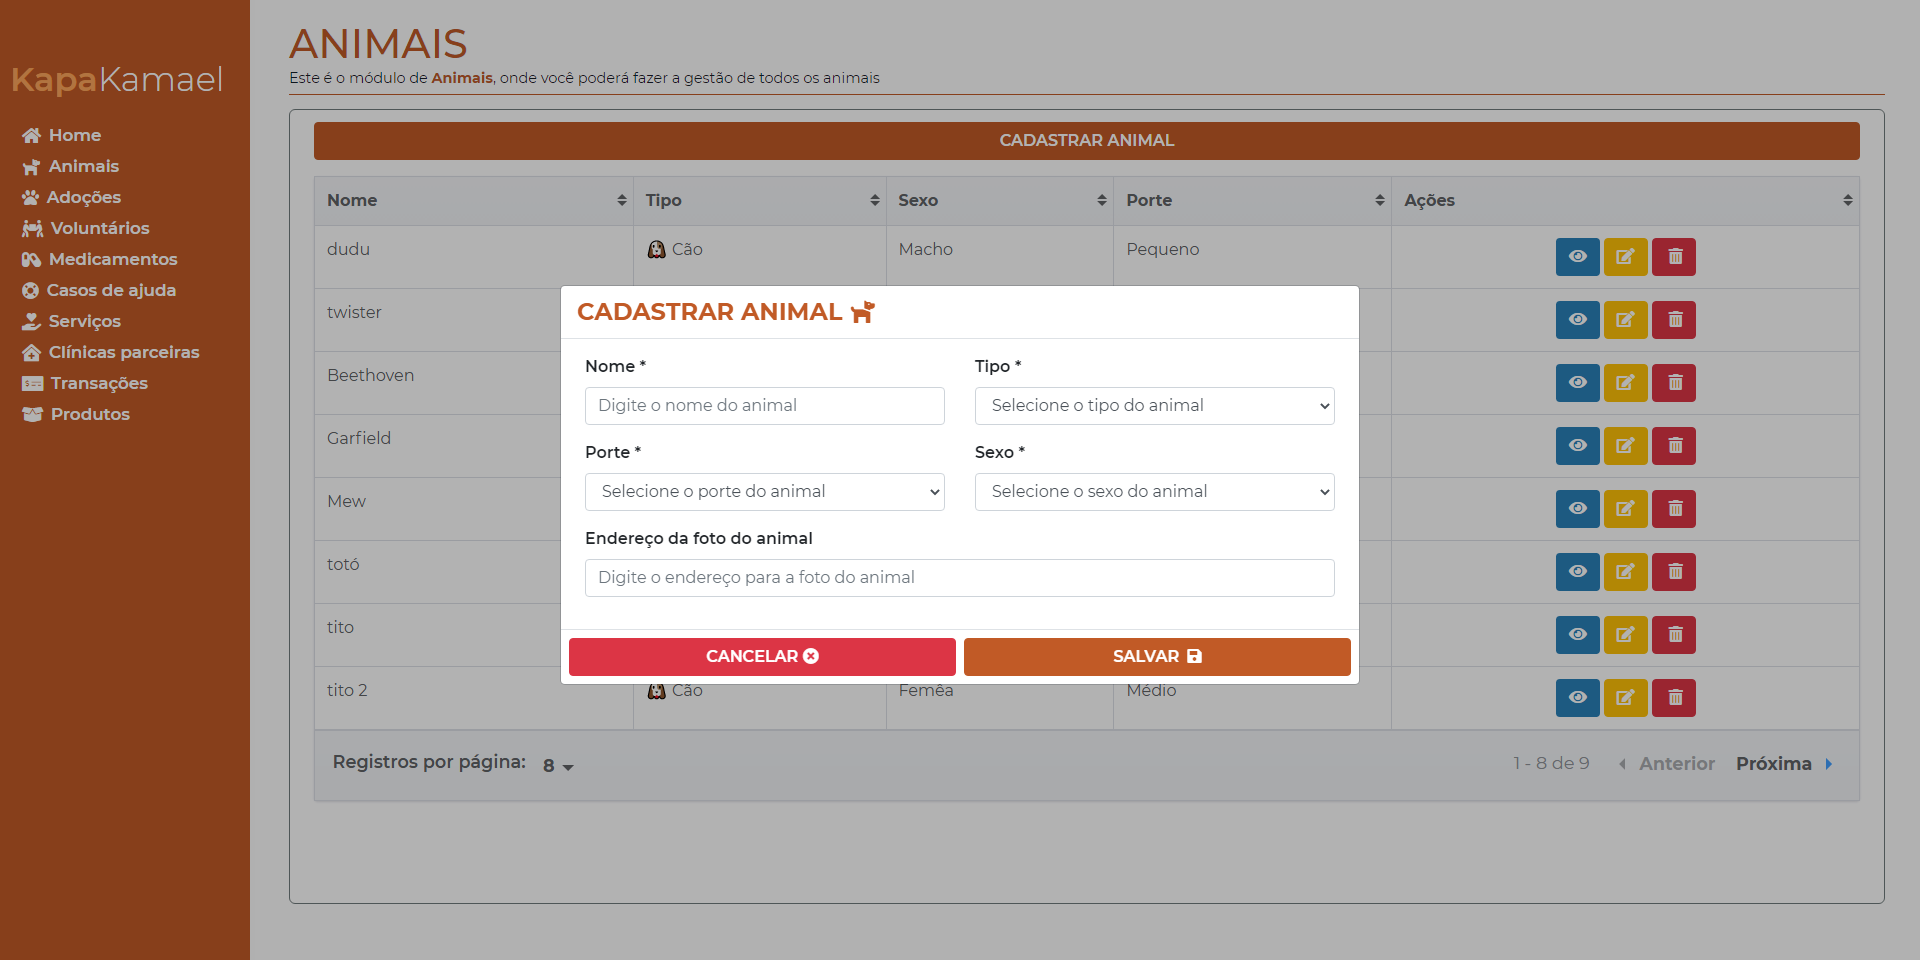
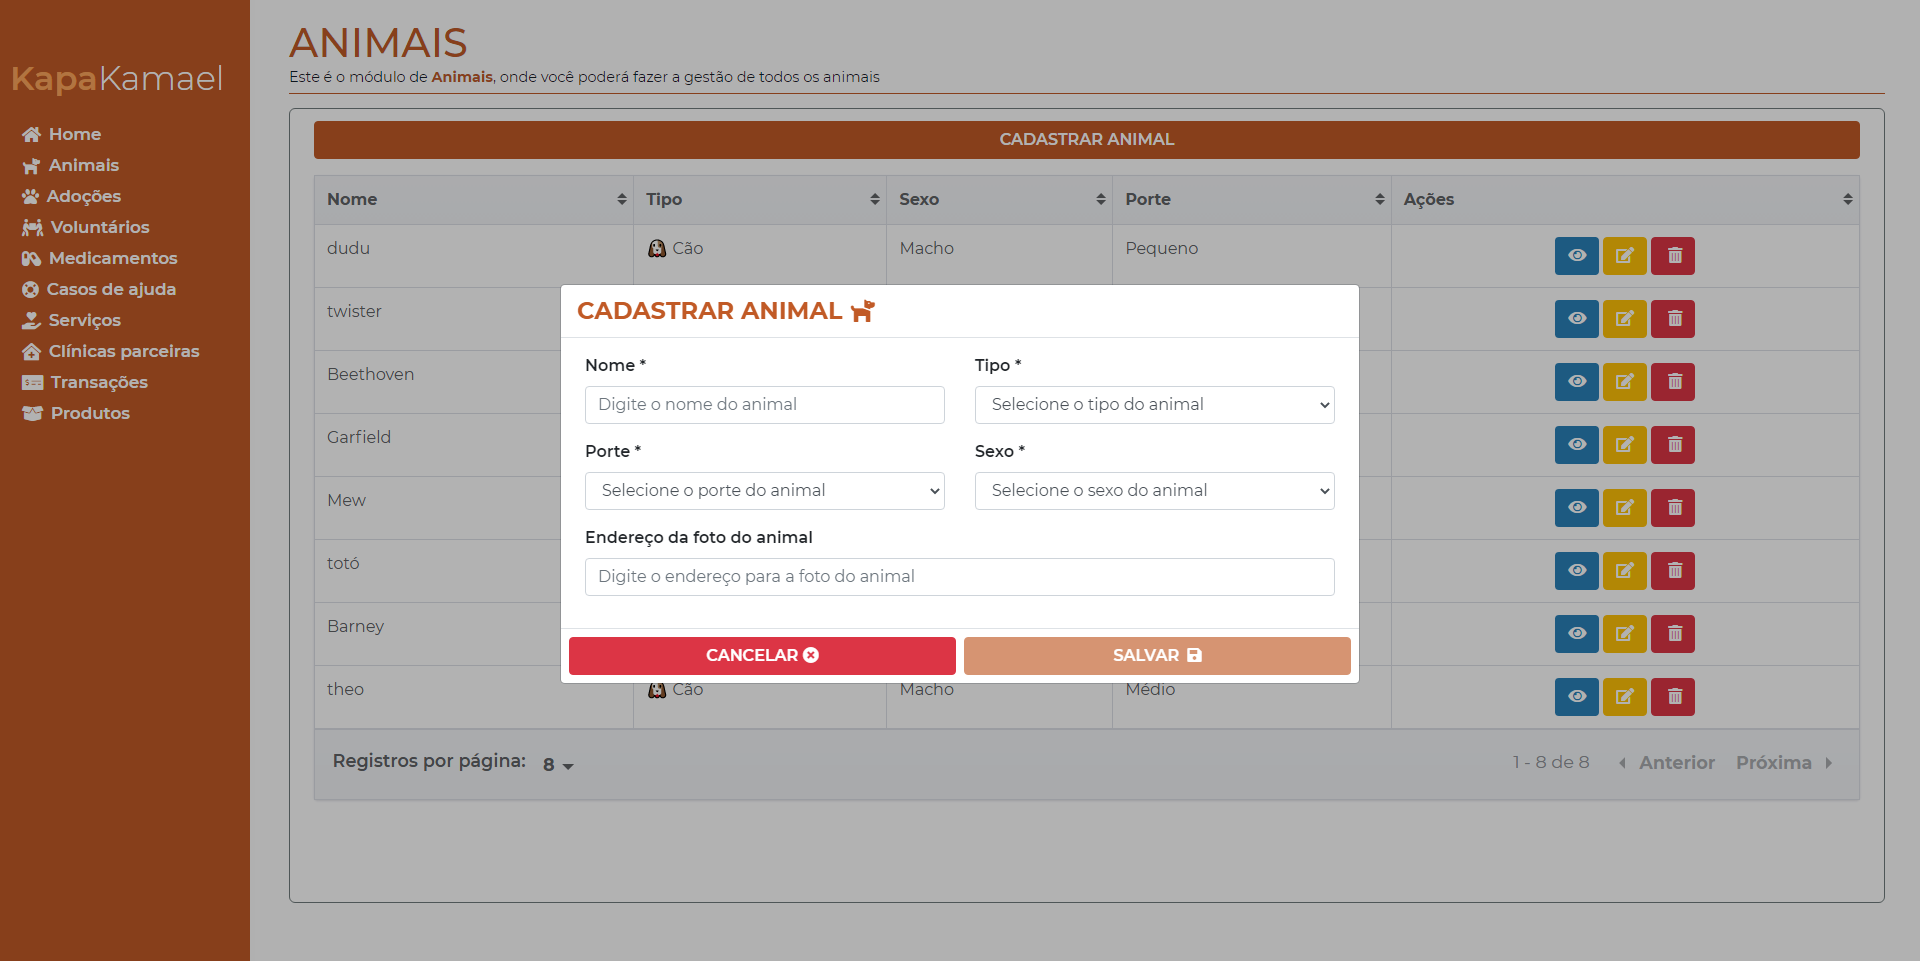
feat: add services page, fix animals button color and add screenshots

diff --git a/src/views/Services/Services.vue b/src/views/Services/Services.vue
@@ -17,7 +17,9 @@
       <LoadingSpinner />
     </div>
     <div v-else>
-      <Button category="primary" class="w-100"> Cadastrar Serviço </Button>
+      <Button category="primary" class="w-100" @click="openCreateServiceModal"
+        >Cadastrar Serviço</Button
+      >
 
       <VueGoodTable
         class="mt-3 w-100"
@@ -47,21 +49,158 @@
             v-if="props.column.field === 'actions'"
             class="media-body text-rigth d-flex justify-content-center"
           >
-            <Button category="blue" class="mr-1">
+            <Button
+              category="blue"
+              class="mr-1"
+              @click="openDetailsModal(props.row.id)"
+            >
               <i class="fas fa-eye"></i>
             </Button>
 
-            <Button category="warning" class="mr-1">
+            <Button
+              category="warning"
+              class="mr-1"
+              @click="openEditModal(props.row.id)"
+            >
               <i class="fas fa-edit"></i>
             </Button>
 
-            <Button category="danger">
+            <Button
+              category="danger"
+              @click="confirmServiceDelete(props.row.id)"
+            >
               <i class="fas fa-trash-alt ml-1"></i>
             </Button>
           </div>
         </template>
       </VueGoodTable>
     </div>
+
+    <!-- Modal de cadastro e edição -->
+    <Modal size="lg" :isVisible="modals.isCreateServiceModalVisible">
+      <template slot="modal-header">
+        <h4 class="modal-title text-uppercase text-bold">
+          {{ currentModalLabel }} serviço
+          <i class="fas fa-hand-holding-heart"></i>
+        </h4>
+      </template>
+
+      <template slot="modal-body">
+        <form class="row" @submit="submitForm">
+          <div class="form-group col-12">
+            <label for="title">Título *</label>
+            <input
+              id="title"
+              type="text"
+              v-model="form.title"
+              class="form-control"
+              placeholder="Digite o título do serviço"
+              @focus="$v.form.title.$touch"
+            />
+
+            <div
+              v-if="$v.form.title.$error"
+              class="text-danger invalid-feedback"
+              style="display: block"
+            >
+              <span v-if="!$v.form.title.required"
+                >Título do serviço é obrigatório</span
+              >
+              <span v-if="!$v.form.title.minLength"
+                >Título do serviço deve ter pelo menos 5 caracteres</span
+              >
+            </div>
+          </div>
+
+          <div class="form-group col-12">
+            <label for="description">Descrição</label>
+            <textarea
+              style="min-height: 100px; max-height: 150px"
+              id="description"
+              type="text"
+              v-model="form.description"
+              class="form-control"
+              placeholder="Digite a descrição do serviço"
+              @focus="$v.form.description.$touch"
+            />
+
+            <div
+              v-if="$v.form.description.$error"
+              class="text-danger invalid-feedback"
+              style="display: block"
+            >
+              <span v-if="!$v.form.description.maxLength"
+                >Descrição do serviço não pode ter mais de 150 caracteres</span
+              >
+            </div>
+          </div>
+        </form>
+      </template>
+
+      <template slot="modal-footer">
+        <Button category="danger" class="col-6" @click="closeCreateServiceModal"
+          >Cancelar <i class="fas fa-times-circle" />
+        </Button>
+
+        <Button
+          category="primary"
+          class="col-6 icon-rotate"
+          @click="submitForm"
+          :disabled="$v.form.$invalid"
+        >
+          Salvar
+          <i class="fas fa-save ml-1"></i>
+        </Button>
+      </template>
+    </Modal>
+
+    <!-- Modal de detalhes -->
+    <Modal size="lg" :isVisible="modals.isServiceDetailsModalVisible">
+      <template slot="modal-header">
+        <h4 class="modal-title text-uppercase text-bold">
+          Visualizar serviço
+          <i class="fas fa-hand-holding-heart"></i>
+        </h4>
+      </template>
+
+      <template slot="modal-body">
+        <form class="row">
+          <div class="form-group col-12">
+            <label for="title">Título *</label>
+            <input
+              id="title"
+              type="text"
+              v-model="form.title"
+              class="form-control"
+              placeholder="Digite o título do serviço"
+              disabled
+            />
+          </div>
+
+          <div class="form-group col-12">
+            <label for="description">Descrição</label>
+            <textarea
+              style="min-height: 100px; max-height: 150px"
+              id="description"
+              type="text"
+              v-model="form.description"
+              class="form-control"
+              placeholder="Digite a descrição do serviço"
+              disabled
+            />
+          </div>
+        </form>
+      </template>
+
+      <template slot="modal-footer">
+        <Button
+          category="primary"
+          class="col-12"
+          @click="modals.isServiceDetailsModalVisible = false"
+          >Fechar <i class="fas fa-times-circle" />
+        </Button>
+      </template>
+    </Modal>
   </div>
 </template>
 
@@ -69,13 +208,20 @@
 /* eslint-disable @typescript-eslint/no-var-requires */
 import 'vue-good-table/dist/vue-good-table.css';
 import Vue from 'vue';
-import { Button } from '@/components';
+import { Button, Modal, LoadingSpinner } from '@/components';
 import { mapActions, mapGetters } from 'vuex';
 import { VueGoodTablePaginationOptions } from '@/utils/constants/VueGoodTablePaginationOptions';
+import { maxLength, minLength, required } from 'vuelidate/lib/validators';
+import { ActionResponse } from '@/store';
+import showToast from '@/services/toast';
+import alert from '@/services/alert';
+import { servicesRequests } from '@/services/api/requests';
 
 export default Vue.extend({
   components: {
     Button,
+    Modal,
+    LoadingSpinner,
     VueGoodTable: require('vue-good-table').VueGoodTable,
   },
 
@@ -85,6 +231,16 @@ export default Vue.extend({
 
   data: () => ({
     paginationOptions: VueGoodTablePaginationOptions,
+    modals: {
+      isServiceDetailsModalVisible: false,
+      isCreateServiceModalVisible: false,
+      currentModal: '' as 'create' | 'edit',
+    },
+    form: {
+      id: '',
+      title: '',
+      description: '',
+    },
   }),
 
   computed: {
@@ -92,14 +248,158 @@ export default Vue.extend({
       services: 'services/getServices',
       isLoading: 'services/getIsLoading',
     }),
+
+    currentModalLabel(): 'Cadastrar' | 'Editar' {
+      const modalLabels = {
+        create: 'Cadastrar',
+        edit: 'Editar',
+      } as const;
+
+      return modalLabels[this.modals.currentModal];
+    },
   },
 
   methods: {
     ...mapActions({
       fetchServices: 'services/fetchServices',
+      addService: 'services/addService',
+      deleteService: 'services/deleteService',
+      updateService: 'services/updateService',
     }),
+
+    openCreateServiceModal() {
+      this.$v.$reset();
+      this.form = {
+        id: '',
+        title: '',
+        description: '',
+      };
+
+      this.modals.currentModal = 'create';
+      this.modals.isCreateServiceModalVisible = true;
+    },
+
+    closeCreateServiceModal() {
+      this.modals.isCreateServiceModalVisible = false;
+    },
+
+    async openEditModal(serviceId: string) {
+      const service = await this.getService(serviceId);
+
+      if (!service) {
+        alert.error('Esse serviço não existe mais').then(this.fetchServices);
+        return;
+      }
+
+      this.form = {
+        id: service.id,
+        title: service.title,
+        description: service.description,
+      };
+
+      this.modals.currentModal = 'edit';
+      this.modals.isCreateServiceModalVisible = true;
+    },
+
+    async openDetailsModal(serviceId: string) {
+      const service = await this.getService(serviceId);
+
+      if (!service) {
+        alert.error('Esse serviço não existe mais').then(this.fetchServices);
+        return;
+      }
+
+      this.form = {
+        id: service.id,
+        title: service.title,
+        description: service.description,
+      };
+
+      this.modals.isServiceDetailsModalVisible = true;
+    },
+
+    async getService(serviceId: string) {
+      const { data } = await servicesRequests.getById(serviceId);
+
+      return data.data;
+    },
+
+    submitForm(event: Event) {
+      event.preventDefault();
+
+      const submits = {
+        create: this.submitCreateForm,
+        edit: this.submitEditForm,
+      } as const;
+
+      submits[this.modals.currentModal]();
+
+      return;
+    },
+
+    async submitCreateForm() {
+      const response: ActionResponse = await this.addService(this.form);
+
+      if (response.status === 201) {
+        this.fetchServices();
+        this.modals.isCreateServiceModalVisible = false;
+        showToast({ icon: 'success', text: response.message });
+      } else {
+        alert.error(response.message);
+      }
+    },
+
+    async submitEditForm() {
+      const response: ActionResponse = await this.updateService(this.form);
+
+      if (response.status === 200) {
+        this.fetchServices();
+        this.modals.isCreateServiceModalVisible = false;
+        showToast({ icon: 'success', text: response.message });
+      } else {
+        alert.error(response.message);
+      }
+    },
+
+    async confirmServiceDelete(serviceId: string) {
+      const { answer } = await alert.question({
+        text: 'Essa operação não poderá ser desfeita',
+      });
+
+      if (answer === 'yes') {
+        const deleteResponse: ActionResponse = await this.deleteService(
+          serviceId
+        );
+
+        const isSuccessResponse = deleteResponse.status === 200;
+
+        if (isSuccessResponse) {
+          this.fetchServices();
+        }
+
+        showToast({
+          icon: isSuccessResponse ? 'success' : 'error',
+          text: isSuccessResponse
+            ? 'Serviço excluído com sucesso'
+            : deleteResponse.message,
+        });
+      } else {
+        showToast({ icon: 'info', text: 'O serviço não foi excluído' });
+      }
+    },
+  },
+
+  validations: {
+    form: {
+      title: { required, minLength: minLength(5) },
+      description: { maxLength: maxLength(150) },
+    },
   },
 });
 </script>
 
-<style></style>
+<style>
+label {
+  font-weight: 600;
+}
+</style>

diff --git a/src/views/Animals/Animals.vue b/src/views/Animals/Animals.vue
@@ -321,7 +321,7 @@
 
       <template slot="modal-footer">
         <Button
-          category="danger"
+          category="primary"
           class="col-12"
           @click="modals.isAnimalDetailsModalVisible = false"
           >Fechar <i class="fas fa-times-circle" />
@@ -383,9 +383,9 @@ export default Vue.extend({
       isLoading: 'animals/getIsLoading',
     }),
 
-    currentModalLabel(): 'Criar' | 'Editar' {
+    currentModalLabel(): 'Cadastrar' | 'Editar' {
       const modalLabels = {
-        create: 'Criar',
+        create: 'Cadastrar',
         edit: 'Editar',
       } as const;
 
